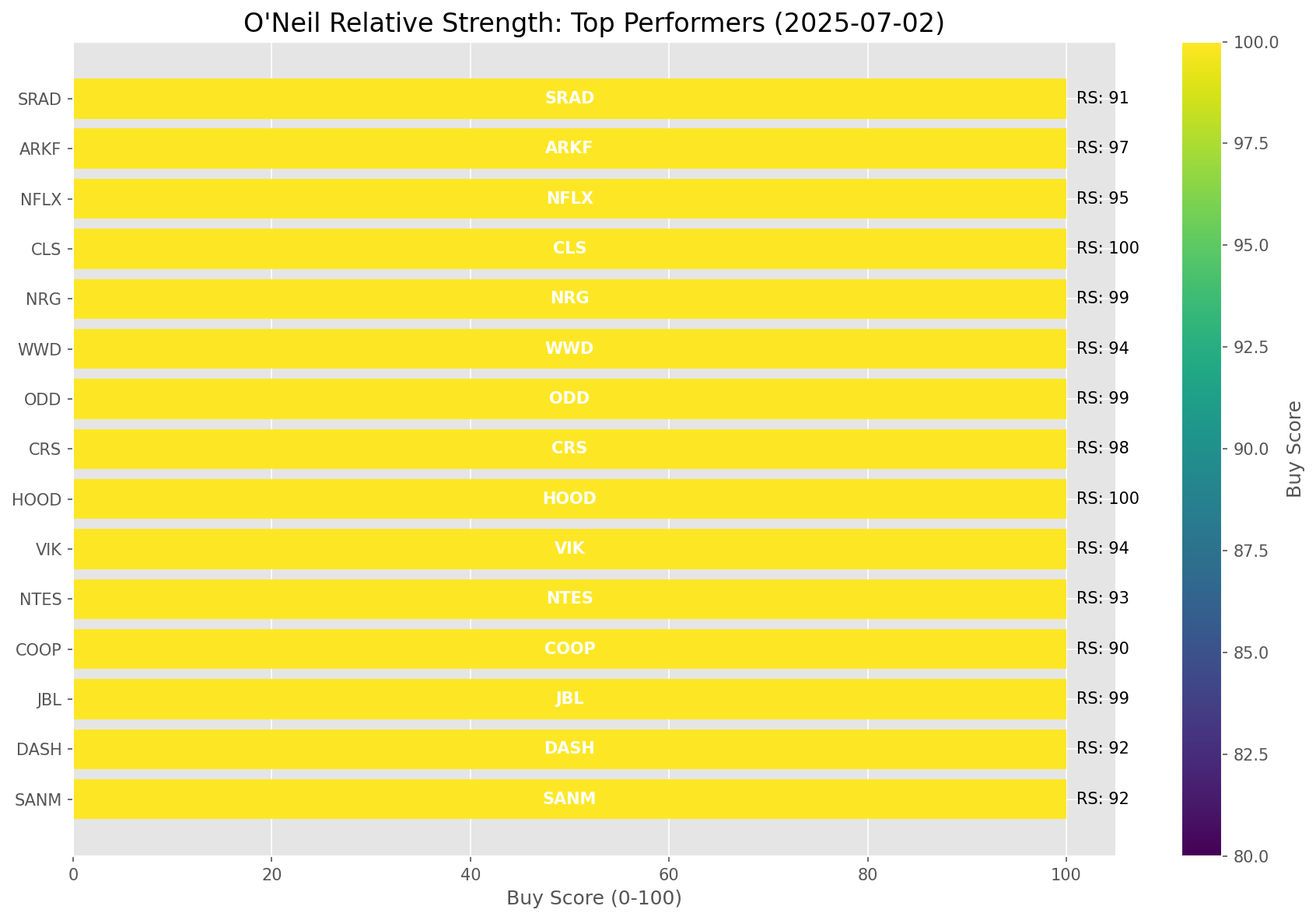
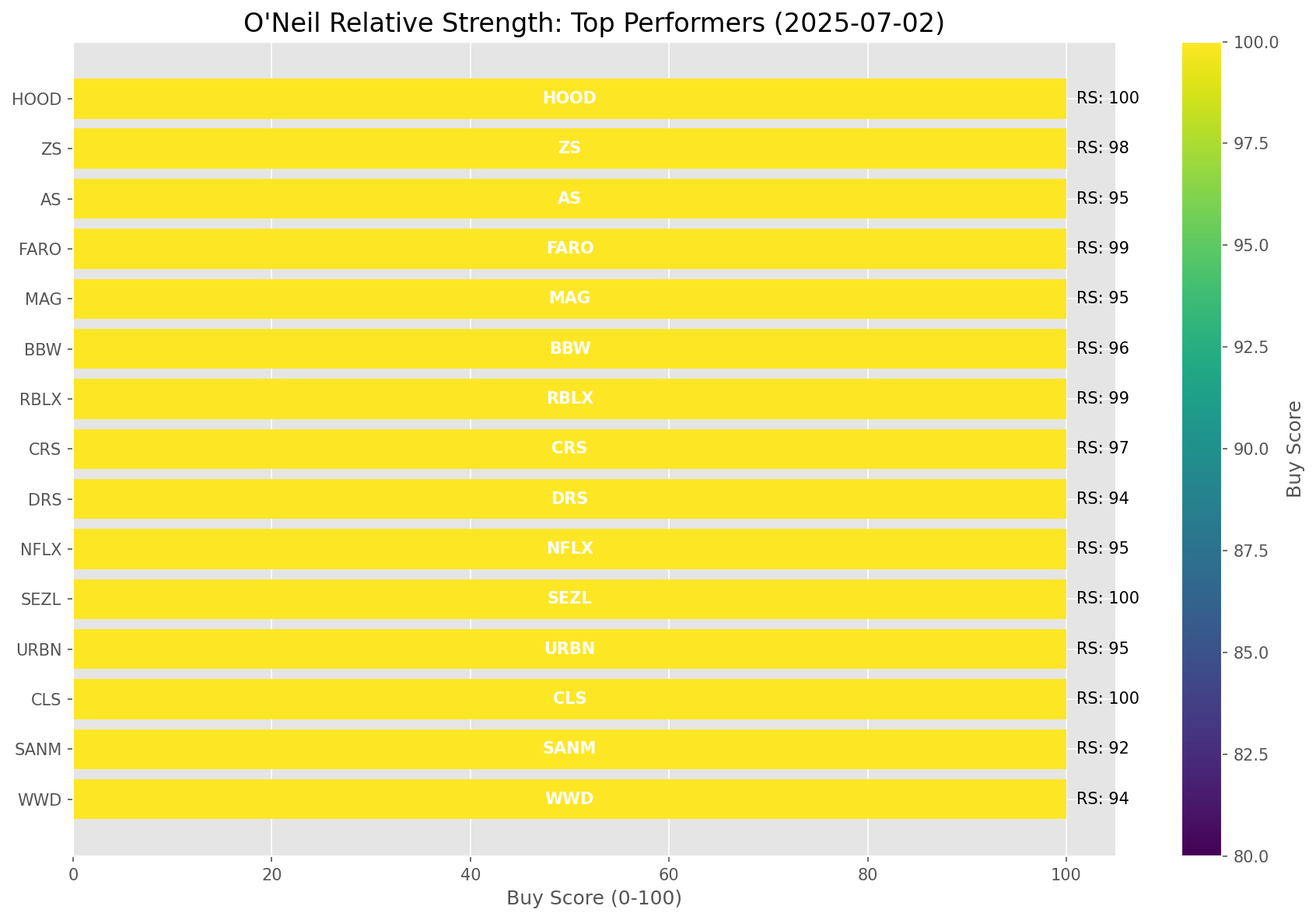
Add market report for 2025-07-02

diff --git a/oneil_relative_strength_report_2025-07-02.md b/oneil_relative_strength_report_2025-07-02.md
@@ -9,11 +9,11 @@
 | Metric | Value |
 |--------|-------|
 | **Market Valuation** | **Overvalued** |
-| **Current Ratio** | 10.14 |
-| **Historical Mean** | 9.36 |
-| **Standard Deviation** | 0.46 |
-| **Z-Score (StdDev from Mean)** | 1.69 |
-| **Total Market Cap** | $303.93 trillion |
+| **Current Ratio** | 10.15 |
+| **Historical Mean** | 9.37 |
+| **Standard Deviation** | 0.47 |
+| **Z-Score (StdDev from Mean)** | 1.64 |
+| **Total Market Cap** | $304.23 trillion |
 | **GDP** | $29.96 trillion |
 
 ## **Market Insights**
@@ -49,41 +49,41 @@ Based on William O'Neil's Relative Strength Methodology
 
 | ETF | Strength | RS Rating | Performance | Above Key MAs | Trend | Sector |
 |-----|----------|-----------|-------------|--------------|-------|--------|
-| [ARKF](https://www.tradingview.com/chart/?symbol=ARKF) | 98.5 | 97.0 | 48.26% | 10d ✓, 50d ✓, 200d ✓ | ↗ | Fintech Innovation |
-| [ARKK](https://www.tradingview.com/chart/?symbol=ARKK) | 98.0 | 96.0 | 44.89% | 10d ✓, 50d ✓, 200d ✓ | ↗ | Innovation |
-| [XLK](https://www.tradingview.com/chart/?symbol=XLK) | 92.5 | 85.0 | 21.55% | 10d ✓, 50d ✓, 200d ✓ | ↗ | Technology |
-| [AIQ](https://www.tradingview.com/chart/?symbol=AIQ) | 91.0 | 82.0 | 18.75% | 10d ✓, 50d ✓, 200d ✓ | ↗ | Artificial Intelligence & Technology |
-| [CIBR](https://www.tradingview.com/chart/?symbol=CIBR) | 90.5 | 81.0 | 18.13% | 10d ✓, 50d ✓, 200d ✓ | ↗ | Cybersecurity |
-| [URA](https://www.tradingview.com/chart/?symbol=URA) | 89.6 | 99.0 | 63.26% | 10d ✗, 50d ✓, 200d ✓ | ↗ | Uranium |
-| [PAVE](https://www.tradingview.com/chart/?symbol=PAVE) | 89.5 | 79.0 | 16.67% | 10d ✓, 50d ✓, 200d ✓ | ↗ | Infrastructure |
-| [JETS](https://www.tradingview.com/chart/?symbol=JETS) | 86.0 | 72.0 | 12.81% | 10d ✓, 50d ✓, 200d ✓ | ↗ | Airlines |
-| [XLI](https://www.tradingview.com/chart/?symbol=XLI) | 86.0 | 72.0 | 12.92% | 10d ✓, 50d ✓, 200d ✓ | ↗ | Industrial |
-| [XLC](https://www.tradingview.com/chart/?symbol=XLC) | 85.0 | 70.0 | 11.73% | 10d ✓, 50d ✓, 200d ✓ | ↗ | Communications |
-| [XLY](https://www.tradingview.com/chart/?symbol=XLY) | 83.0 | 66.0 | 10.53% | 10d ✓, 50d ✓, 200d ✓ | ↗ | Consumer Discretionary |
+| [ARKW](https://www.tradingview.com/chart/?symbol=ARKW) | 99.0 | 98.0 | 52.59% | 10d ✓, 50d ✓, 200d ✓ | ↗ | Next Generation Internet |
+| [ARKK](https://www.tradingview.com/chart/?symbol=ARKK) | 98.5 | 97.0 | 46.55% | 10d ✓, 50d ✓, 200d ✓ | ↗ | Innovation |
+| [ARKF](https://www.tradingview.com/chart/?symbol=ARKF) | 98.5 | 97.0 | 46.79% | 10d ✓, 50d ✓, 200d ✓ | ↗ | Fintech Innovation |
+| [BLOK](https://www.tradingview.com/chart/?symbol=BLOK) | 97.0 | 94.0 | 35.23% | 10d ✓, 50d ✓, 200d ✓ | ↗ | Blockchain & Cryptocurrency |
+| [XLK](https://www.tradingview.com/chart/?symbol=XLK) | 92.5 | 85.0 | 20.91% | 10d ✓, 50d ✓, 200d ✓ | ↗ | Technology |
+| [AIQ](https://www.tradingview.com/chart/?symbol=AIQ) | 90.0 | 80.0 | 17.62% | 10d ✓, 50d ✓, 200d ✓ | ↗ | Artificial Intelligence & Technology |
+| [URA](https://www.tradingview.com/chart/?symbol=URA) | 89.6 | 99.0 | 62.31% | 10d ✗, 50d ✓, 200d ✓ | ↗ | Uranium |
+| [CIBR](https://www.tradingview.com/chart/?symbol=CIBR) | 89.5 | 79.0 | 16.85% | 10d ✓, 50d ✓, 200d ✓ | ↗ | Cybersecurity |
+| [PAVE](https://www.tradingview.com/chart/?symbol=PAVE) | 89.0 | 78.0 | 16.08% | 10d ✓, 50d ✓, 200d ✓ | ↗ | Infrastructure |
+| [JETS](https://www.tradingview.com/chart/?symbol=JETS) | 87.5 | 75.0 | 14.48% | 10d ✓, 50d ✓, 200d ✓ | ↗ | Airlines |
+| [XLI](https://www.tradingview.com/chart/?symbol=XLI) | 85.0 | 70.0 | 12.02% | 10d ✓, 50d ✓, 200d ✓ | ↗ | Industrial |
+| [XLC](https://www.tradingview.com/chart/?symbol=XLC) | 84.5 | 69.0 | 11.62% | 10d ✓, 50d ✓, 200d ✓ | ↗ | Communications |
+| [XLY](https://www.tradingview.com/chart/?symbol=XLY) | 82.0 | 64.0 | 9.79% | 10d ✓, 50d ✓, 200d ✓ | ↗ | Consumer Discretionary |
 | [IYZ](https://www.tradingview.com/chart/?symbol=IYZ) | 80.0 | 60.0 | 8.58% | 10d ✓, 50d ✓, 200d ✓ | ↗ | Telecommunications |
-| [XLF](https://www.tradingview.com/chart/?symbol=XLF) | 76.5 | 53.0 | 5.72% | 10d ✓, 50d ✓, 200d ✓ | ↗ | Financial |
-| [SOXX](https://www.tradingview.com/chart/?symbol=SOXX) | 74.5 | 89.0 | 26.28% | 10d ✓, 50d ✓, 200d ✓ | ↘ | Semiconductors |
-| [XLU](https://www.tradingview.com/chart/?symbol=XLU) | 74.0 | 48.0 | 3.92% | 10d ✓, 50d ✓, 200d ✓ | ↗ | Utilities |
-| [ICLN](https://www.tradingview.com/chart/?symbol=ICLN) | 68.5 | 77.0 | 15.76% | 10d ✓, 50d ✓, 200d ✓ | ↘ | Clean Energy |
-| [XLP](https://www.tradingview.com/chart/?symbol=XLP) | 68.5 | 37.0 | 0.38% | 10d ✓, 50d ✓, 200d ✓ | ↗ | Consumer Staples |
-| [GLD](https://www.tradingview.com/chart/?symbol=GLD) | 67.6 | 55.0 | 6.74% | 10d ✗, 50d ✓, 200d ✓ | ↗ | Gold |
-| [SLV](https://www.tradingview.com/chart/?symbol=SLV) | 66.1 | 52.0 | 5.61% | 10d ✗, 50d ✓, 200d ✓ | ↗ | Silver |
-| [KWEB](https://www.tradingview.com/chart/?symbol=KWEB) | 64.5 | 29.0 | -1.63% | 10d ✓, 50d ✓, 200d ✓ | ↗ | Chinese Internet |
+| [SLV](https://www.tradingview.com/chart/?symbol=SLV) | 79.0 | 58.0 | 7.73% | 10d ✓, 50d ✓, 200d ✓ | ↗ | Silver |
+| [XLF](https://www.tradingview.com/chart/?symbol=XLF) | 76.0 | 52.0 | 5.29% | 10d ✓, 50d ✓, 200d ✓ | ↗ | Financial |
+| [SOXX](https://www.tradingview.com/chart/?symbol=SOXX) | 75.0 | 90.0 | 26.60% | 10d ✓, 50d ✓, 200d ✓ | ↘ | Semiconductors |
+| [XLU](https://www.tradingview.com/chart/?symbol=XLU) | 74.0 | 48.0 | 3.54% | 10d ✓, 50d ✓, 200d ✓ | ↗ | Utilities |
+| [ARKG](https://www.tradingview.com/chart/?symbol=ARKG) | 73.0 | 86.0 | 22.43% | 10d ✓, 50d ✓, 200d ✓ | ↘ | Genomics |
+| [ICLN](https://www.tradingview.com/chart/?symbol=ICLN) | 69.0 | 78.0 | 16.45% | 10d ✓, 50d ✓, 200d ✓ | ↘ | Clean Energy |
+| [XLP](https://www.tradingview.com/chart/?symbol=XLP) | 68.0 | 36.0 | 0.02% | 10d ✓, 50d ✓, 200d ✓ | ↗ | Consumer Staples |
+| [GLD](https://www.tradingview.com/chart/?symbol=GLD) | 67.6 | 55.0 | 6.79% | 10d ✗, 50d ✓, 200d ✓ | ↗ | Gold |
 | [IYT](https://www.tradingview.com/chart/?symbol=IYT) | 60.5 | 61.0 | 8.82% | 10d ✓, 50d ✓, 200d ✓ | ↘ | Transportation |
-| [ARKG](https://www.tradingview.com/chart/?symbol=ARKG) | 58.8 | 78.0 | 16.43% | 10d ✓, 50d ✓, 200d ✗ | ↘ | Genomics |
-| [XLB](https://www.tradingview.com/chart/?symbol=XLB) | 55.0 | 50.0 | 4.77% | 10d ✓, 50d ✓, 200d ✓ | ↘ | Materials |
-| [ITB](https://www.tradingview.com/chart/?symbol=ITB) | 41.3 | 43.0 | 2.02% | 10d ✓, 50d ✓, 200d ✗ | ↘ | Home Construction |
-| [IBB](https://www.tradingview.com/chart/?symbol=IBB) | 36.8 | 34.0 | -0.21% | 10d ✓, 50d ✓, 200d ✗ | ↘ | Biotechnology |
-| [IYR](https://www.tradingview.com/chart/?symbol=IYR) | 36.3 | 33.0 | -0.32% | 10d ✓, 50d ✓, 200d ✗ | ↘ | Real Estate |
-| [DBA](https://www.tradingview.com/chart/?symbol=DBA) | 32.5 | 25.0 | -2.95% | 10d ✗, 50d ✗, 200d ✗ | ↗ | Agriculture |
-| [TLT](https://www.tradingview.com/chart/?symbol=TLT) | 31.8 | 24.0 | -3.17% | 10d ✓, 50d ✓, 200d ✗ | ↘ | Long-term Treasuries |
-| [XLV](https://www.tradingview.com/chart/?symbol=XLV) | 28.3 | 17.0 | -6.37% | 10d ✓, 50d ✓, 200d ✗ | ↘ | Healthcare |
-| [DBC](https://www.tradingview.com/chart/?symbol=DBC) | 22.9 | 26.0 | -2.53% | 10d ✗, 50d ✓, 200d ✗ | ↘ | Commodities |
-| [BIL](https://www.tradingview.com/chart/?symbol=BIL) | 17.0 | 34.0 | -0.32% | 10d ✗, 50d ✗, 200d ✗ | ↘ | Short-term Treasuries |
-| [XLE](https://www.tradingview.com/chart/?symbol=XLE) | 16.4 | 13.0 | -8.55% | 10d ✗, 50d ✓, 200d ✗ | ↘ | Energy |
-| [UUP](https://www.tradingview.com/chart/?symbol=UUP) | 9.0 | 18.0 | -5.85% | 10d ✗, 50d ✗, 200d ✗ | ↘ | U.S. Dollar |
-| [ARKW](https://www.tradingview.com/chart/?symbol=ARKW) | 0.0 | 0.0 | 0.00% | 10d ✗, 50d ✗, 200d ✗ | ↘ | Next Generation Internet |
-| [BLOK](https://www.tradingview.com/chart/?symbol=BLOK) | 0.0 | 0.0 | 0.00% | 10d ✗, 50d ✗, 200d ✗ | ↘ | Blockchain & Cryptocurrency |
+| [XLB](https://www.tradingview.com/chart/?symbol=XLB) | 55.0 | 50.0 | 4.74% | 10d ✓, 50d ✓, 200d ✓ | ↘ | Materials |
+| [KWEB](https://www.tradingview.com/chart/?symbol=KWEB) | 52.1 | 24.0 | -3.50% | 10d ✗, 50d ✓, 200d ✓ | ↗ | Chinese Internet |
+| [IBB](https://www.tradingview.com/chart/?symbol=IBB) | 43.3 | 47.0 | 3.47% | 10d ✓, 50d ✓, 200d ✗ | ↘ | Biotechnology |
+| [ITB](https://www.tradingview.com/chart/?symbol=ITB) | 40.8 | 42.0 | 1.75% | 10d ✓, 50d ✓, 200d ✗ | ↘ | Home Construction |
+| [IYR](https://www.tradingview.com/chart/?symbol=IYR) | 35.8 | 32.0 | -0.66% | 10d ✓, 50d ✓, 200d ✗ | ↘ | Real Estate |
+| [DBA](https://www.tradingview.com/chart/?symbol=DBA) | 33.0 | 26.0 | -2.95% | 10d ✗, 50d ✗, 200d ✗ | ↗ | Agriculture |
+| [XLV](https://www.tradingview.com/chart/?symbol=XLV) | 29.8 | 20.0 | -5.22% | 10d ✓, 50d ✓, 200d ✗ | ↘ | Healthcare |
+| [DBC](https://www.tradingview.com/chart/?symbol=DBC) | 23.4 | 27.0 | -2.53% | 10d ✗, 50d ✓, 200d ✗ | ↘ | Commodities |
+| [TLT](https://www.tradingview.com/chart/?symbol=TLT) | 20.4 | 21.0 | -4.68% | 10d ✗, 50d ✓, 200d ✗ | ↘ | Long-term Treasuries |
+| [BIL](https://www.tradingview.com/chart/?symbol=BIL) | 18.0 | 36.0 | 0.02% | 10d ✗, 50d ✗, 200d ✗ | ↘ | Short-term Treasuries |
+| [XLE](https://www.tradingview.com/chart/?symbol=XLE) | 16.4 | 13.0 | -9.15% | 10d ✗, 50d ✓, 200d ✗ | ↘ | Energy |
+| [UUP](https://www.tradingview.com/chart/?symbol=UUP) | 9.5 | 19.0 | -5.62% | 10d ✗, 50d ✗, 200d ✗ | ↘ | U.S. Dollar |
 
 ### **Sector ETF Performance Interpretation**
 
@@ -98,138 +98,145 @@ This table shows the relative strength metrics for different market sectors base
 
 ### **Current Sector Leadership**
 
-The current market leadership is coming from the following sectors: **Fintech Innovation, Innovation, Technology**.
+The current market leadership is coming from the following sectors: **Next Generation Internet, Innovation, Fintech Innovation**.
 
-The **Fintech Innovation** sector (represented by **ARKF**) is showing particularly strong relative strength with an RS rating of 97.0 and performance of 48.26% vs. the S&P 500. This sector is trading above its 10-day, 50-day, 200-day moving average(s). Investors should consider focusing on high RS stocks within these leading sectors for potential outperformance.
+The **Next Generation Internet** sector (represented by **ARKW**) is showing particularly strong relative strength with an RS rating of 98.0 and performance of 52.59% vs. the S&P 500. This sector is trading above its 10-day, 50-day, 200-day moving average(s). Investors should consider focusing on high RS stocks within these leading sectors for potential outperformance.
 
 ---
 
 ## **Buy Recommendations**
 
-The following 69 stocks show exceptional relative strength:
+The following 59 stocks show exceptional relative strength:
 
 | RS Rating | Buy Score | Current Price | Chart | Name | Ticker |
 |-----------|-----------|---------------|-------|------|--------|
-| 100 | 100 | $92.33 | [Chart](https://www.tradingview.com/chart/?symbol=HOOD) | Robinhood Markets, Inc. Class A Common Stock | HOOD |
-| 100 | 100 | $148.91 | [Chart](https://www.tradingview.com/chart/?symbol=CLS) | Celestica, Inc. | CLS |
+| 100 | 100 | $150.14 | [Chart](https://www.tradingview.com/chart/?symbol=CLS) | Celestica, Inc. | CLS |
+| 100 | 100 | $170.72 | [Chart](https://www.tradingview.com/chart/?symbol=SEZL) | Sezzle Inc. Common Stock | SEZL |
+| 100 | 100 | $97.59 | [Chart](https://www.tradingview.com/chart/?symbol=HOOD) | Robinhood Markets, Inc. Class A Common Stock | HOOD |
 | 100 | 100 | $260.67 | [Chart](https://www.tradingview.com/chart/?symbol=DAVE) | Dave Inc. Class A Common Stock | DAVE |
-| 100 | 100 | $167.58 | [Chart](https://www.tradingview.com/chart/?symbol=SEZL) | Sezzle Inc. Common Stock | SEZL |
-| 99 | 100 | $216.14 | [Chart](https://www.tradingview.com/chart/?symbol=JBL) | Jabil Inc. | JBL |
+| 99 | 100 | $103.60 | [Chart](https://www.tradingview.com/chart/?symbol=RBLX) | Roblox Corporation | RBLX |
+| 99 | 100 | $43.91 | [Chart](https://www.tradingview.com/chart/?symbol=FARO) | Faro Technologies Inc | FARO |
+| 99 | 100 | $509.87 | [Chart](https://www.tradingview.com/chart/?symbol=GEV) | GE Vernova Inc. | GEV |
 | 99 | 100 | $74.24 | [Chart](https://www.tradingview.com/chart/?symbol=ODD) | ODDITY Tech Ltd. Class A Ordinary Shares | ODD |
-| 99 | 100 | $155.96 | [Chart](https://www.tradingview.com/chart/?symbol=NRG) | NRG Energy, Inc. | NRG |
-| 99 | 100 | $64.38 | [Chart](https://www.tradingview.com/chart/?symbol=LIF) | Life360, Inc. Common Stock | LIF |
-| 99 | 100 | $506.00 | [Chart](https://www.tradingview.com/chart/?symbol=GEV) | GE Vernova Inc. | GEV |
-| 99 | 100 | $338.26 | [Chart](https://www.tradingview.com/chart/?symbol=CVNA) | Carvana Co. | CVNA |
-| 98 | 100 | $271.75 | [Chart](https://www.tradingview.com/chart/?symbol=CRS) | Carpenter Technology Corp | CRS |
-| 98 | 100 | $476.63 | [Chart](https://www.tradingview.com/chart/?symbol=CW) | Curtiss-Wright Corp. | CW |
-| 98 | 100 | $315.10 | [Chart](https://www.tradingview.com/chart/?symbol=RCL) | Royal Caribbean Group | RCL |
-| 97 | 100 | $49.31 | [Chart](https://www.tradingview.com/chart/?symbol=ARKF) | ARK Fintech Innovation ETF | ARKF |
-| 97 | 100 | $97.39 | [Chart](https://www.tradingview.com/chart/?symbol=APH) | Amphenol Corporation | APH |
+| 99 | 100 | $345.79 | [Chart](https://www.tradingview.com/chart/?symbol=CVNA) | Carvana Co. | CVNA |
+| 98 | 100 | $311.29 | [Chart](https://www.tradingview.com/chart/?symbol=ZS) | Zscaler, Inc. Common Stock | ZS |
+| 98 | 100 | $322.46 | [Chart](https://www.tradingview.com/chart/?symbol=RCL) | Royal Caribbean Group | RCL |
+| 98 | 100 | $218.39 | [Chart](https://www.tradingview.com/chart/?symbol=JBL) | Jabil Inc. | JBL |
+| 98 | 100 | $157.08 | [Chart](https://www.tradingview.com/chart/?symbol=NRG) | NRG Energy, Inc. | NRG |
+| 97 | 100 | $271.75 | [Chart](https://www.tradingview.com/chart/?symbol=CRS) | Carpenter Technology Corp | CRS |
 | 96 | 100 | $52.60 | [Chart](https://www.tradingview.com/chart/?symbol=BBW) | Build-A-Bear Workshop, Inc. | BBW |
-| 96 | 100 | $73.59 | [Chart](https://www.tradingview.com/chart/?symbol=URBN) | Urban Outfitters Inc | URBN |
-| 96 | 100 | $168.23 | [Chart](https://www.tradingview.com/chart/?symbol=MTZ) | MasTec, Inc. | MTZ |
-| 96 | 100 | $37.67 | [Chart](https://www.tradingview.com/chart/?symbol=AS) | Amer Sports, Inc. | AS |
-| 95 | 100 | $1293.60 | [Chart](https://www.tradingview.com/chart/?symbol=NFLX) | NetFlix Inc | NFLX |
-| 95 | 100 | $45.09 | [Chart](https://www.tradingview.com/chart/?symbol=DRS) | Leonardo DRS, Inc. Common Stock | DRS |
-| 94 | 100 | $54.01 | [Chart](https://www.tradingview.com/chart/?symbol=VIK) | Viking Holdings Ltd | VIK |
+| 95 | 100 | $73.59 | [Chart](https://www.tradingview.com/chart/?symbol=URBN) | Urban Outfitters Inc | URBN |
+| 95 | 100 | $1292.77 | [Chart](https://www.tradingview.com/chart/?symbol=NFLX) | NetFlix Inc | NFLX |
+| 95 | 100 | $21.34 | [Chart](https://www.tradingview.com/chart/?symbol=MAG) | MAG Silver Corp. | MAG |
+| 95 | 100 | $37.79 | [Chart](https://www.tradingview.com/chart/?symbol=AS) | Amer Sports, Inc. | AS |
 | 94 | 100 | $244.35 | [Chart](https://www.tradingview.com/chart/?symbol=WWD) | Woodward, Inc. | WWD |
-| 94 | 100 | $56.32 | [Chart](https://www.tradingview.com/chart/?symbol=IBKR) | Interactive Brokers Group, Inc. Class A Common Stock | IBKR |
-| 94 | 100 | $41.96 | [Chart](https://www.tradingview.com/chart/?symbol=KD) | Kyndryl Holdings, Inc. | KD |
-| 93 | 100 | $134.78 | [Chart](https://www.tradingview.com/chart/?symbol=NTES) | NetEase, inc. | NTES |
-| 93 | 100 | $63.70 | [Chart](https://www.tradingview.com/chart/?symbol=CAKE) | Cheesecake Factory (The) | CAKE |
+| 94 | 100 | $45.09 | [Chart](https://www.tradingview.com/chart/?symbol=DRS) | Leonardo DRS, Inc. Common Stock | DRS |
+| 93 | 100 | $17.59 | [Chart](https://www.tradingview.com/chart/?symbol=DAN) | Dana Incorporated | DAN |
+| 93 | 100 | $57.41 | [Chart](https://www.tradingview.com/chart/?symbol=IBKR) | Interactive Brokers Group, Inc. Class A Common Stock | IBKR |
+| 93 | 100 | $241.92 | [Chart](https://www.tradingview.com/chart/?symbol=DASH) | DoorDash, Inc. Class A Common Stock | DASH |
 | 92 | 100 | $98.49 | [Chart](https://www.tradingview.com/chart/?symbol=SANM) | Sanmina  Corp | SANM |
-| 92 | 100 | $238.01 | [Chart](https://www.tradingview.com/chart/?symbol=DASH) | DoorDash, Inc. Class A Common Stock | DASH |
 | 92 | 100 | $32.56 | [Chart](https://www.tradingview.com/chart/?symbol=PRDO) | Perdoceo Education Corporation | PRDO |
-| 92 | 100 | $104.67 | [Chart](https://www.tradingview.com/chart/?symbol=JCI) | Johnson Controls International plc | JCI |
-| 91 | 100 | $27.69 | [Chart](https://www.tradingview.com/chart/?symbol=SRAD) | Sportradar Group AG Class A Ordinary Shares | SRAD |
-| 91 | 100 | $24.74 | [Chart](https://www.tradingview.com/chart/?symbol=KAR) | OPENLANE, Inc | KAR |
-| 90 | 100 | $152.18 | [Chart](https://www.tradingview.com/chart/?symbol=COOP) | Mr. Cooper Group Inc. Common Stock | COOP |
-| 88 | 100 | $5730.73 | [Chart](https://www.tradingview.com/chart/?symbol=BKNG) | Booking Holdings Inc. Common Stock | BKNG |
-| 87 | 100 | $184.02 | [Chart](https://www.tradingview.com/chart/?symbol=EAT) | Brinker International, Inc. | EAT |
-| 87 | 100 | $86.94 | [Chart](https://www.tradingview.com/chart/?symbol=TPR) | Tapestry, Inc. Common Stock | TPR |
-| 88 | 99 | $65.44 | [Chart](https://www.tradingview.com/chart/?symbol=RYTM) | Rhythm Pharmaceuticals, Inc. Common Stock | RYTM |
-| 88 | 99 | $249.02 | [Chart](https://www.tradingview.com/chart/?symbol=GE) | GE Aerospace | GE |
+| 92 | 100 | $41.58 | [Chart](https://www.tradingview.com/chart/?symbol=KD) | Kyndryl Holdings, Inc. | KD |
+| 91 | 100 | $27.76 | [Chart](https://www.tradingview.com/chart/?symbol=SRAD) | Sportradar Group AG Class A Ordinary Shares | SRAD |
+| 91 | 100 | $104.98 | [Chart](https://www.tradingview.com/chart/?symbol=JCI) | Johnson Controls International plc | JCI |
+| 90 | 100 | $64.32 | [Chart](https://www.tradingview.com/chart/?symbol=CAKE) | Cheesecake Factory (The) | CAKE |
+| 89 | 100 | $25.31 | [Chart](https://www.tradingview.com/chart/?symbol=KAR) | OPENLANE, Inc | KAR |
+| 88 | 99 | $282.62 | [Chart](https://www.tradingview.com/chart/?symbol=VEEV) | Veeva Systems Inc. | VEEV |
+| 88 | 99 | $5730.73 | [Chart](https://www.tradingview.com/chart/?symbol=BKNG) | Booking Holdings Inc. Common Stock | BKNG |
+| 87 | 99 | $154.46 | [Chart](https://www.tradingview.com/chart/?symbol=COOP) | Mr. Cooper Group Inc. Common Stock | COOP |
+| 85 | 98 | $44.10 | [Chart](https://www.tradingview.com/chart/?symbol=EXEL) | Exelixis Inc | EXEL |
+| 85 | 98 | $182.75 | [Chart](https://www.tradingview.com/chart/?symbol=EAT) | Brinker International, Inc. | EAT |
+| 88 | 97 | $48.45 | [Chart](https://www.tradingview.com/chart/?symbol=SIL) | Global X Silver Miners ETF (NEW) | SIL |
 | 84 | 97 | $21.31 | [Chart](https://www.tradingview.com/chart/?symbol=KT) | KT Corp. | KT |
-| 86 | 96 | $282.90 | [Chart](https://www.tradingview.com/chart/?symbol=VEEV) | Veeva Systems Inc. | VEEV |
-| 86 | 96 | $80.43 | [Chart](https://www.tradingview.com/chart/?symbol=BYD) | Boyd Gaming Corporation | BYD |
-| 84 | 96 | $29.45 | [Chart](https://www.tradingview.com/chart/?symbol=NTGR) | NETGEAR, Inc. | NTGR |
-| 83 | 96 | $18.33 | [Chart](https://www.tradingview.com/chart/?symbol=BCS) | Barclays PLC | BCS |
-| 83 | 96 | $36.22 | [Chart](https://www.tradingview.com/chart/?symbol=AHR) | American Healthcare REIT, Inc. | AHR |
+| 87 | 96 | $65.44 | [Chart](https://www.tradingview.com/chart/?symbol=RYTM) | Rhythm Pharmaceuticals, Inc. Common Stock | RYTM |
+| 86 | 96 | $250.81 | [Chart](https://www.tradingview.com/chart/?symbol=WTS) | Watts Water Technologies, Inc. Class A | WTS |
+| 85 | 96 | $215.75 | [Chart](https://www.tradingview.com/chart/?symbol=COF) | Capital One Financial | COF |
 | 82 | 96 | $90.89 | [Chart](https://www.tradingview.com/chart/?symbol=SNEX) | StoneX Group Inc. Common Stock | SNEX |
-| 86 | 95 | $48.27 | [Chart](https://www.tradingview.com/chart/?symbol=SIL) | Global X Silver Miners ETF (NEW) | SIL |
-| 84 | 95 | $215.18 | [Chart](https://www.tradingview.com/chart/?symbol=COF) | Capital One Financial | COF |
 | 84 | 95 | $185.01 | [Chart](https://www.tradingview.com/chart/?symbol=ITA) | iShares U.S. Aerospace & Defense ETF | ITA |
-| 83 | 95 | $75.11 | [Chart](https://www.tradingview.com/chart/?symbol=CTVA) | Corteva, Inc. Common Stock | CTVA |
-| 81 | 94 | $43.62 | [Chart](https://www.tradingview.com/chart/?symbol=EXEL) | Exelixis Inc | EXEL |
-| 81 | 94 | $80.39 | [Chart](https://www.tradingview.com/chart/?symbol=LLYVK) | Liberty Media Corporation Series C Liberty Live Common Stock | LLYVK |
+| 84 | 94 | $29.45 | [Chart](https://www.tradingview.com/chart/?symbol=NTGR) | NETGEAR, Inc. | NTGR |
+| 84 | 94 | $139.82 | [Chart](https://www.tradingview.com/chart/?symbol=PPA) | Invesco Aerospace & Defense ETF | PPA |
+| 83 | 94 | $75.92 | [Chart](https://www.tradingview.com/chart/?symbol=CTVA) | Corteva, Inc. Common Stock | CTVA |
+| 81 | 94 | $36.46 | [Chart](https://www.tradingview.com/chart/?symbol=AHR) | American Healthcare REIT, Inc. | AHR |
 | 81 | 94 | $28.98 | [Chart](https://www.tradingview.com/chart/?symbol=CAE) | CAE INC | CAE |
-| 83 | 93 | $110.74 | [Chart](https://www.tradingview.com/chart/?symbol=SPMO) | Invesco S&P 500 Momentum ETF | SPMO |
-| 83 | 93 | $265.87 | [Chart](https://www.tradingview.com/chart/?symbol=FDN) | First Trust Dow Jones Internet Index Fund ETF | FDN |
-| 82 | 93 | $100.80 | [Chart](https://www.tradingview.com/chart/?symbol=LBRDK) | Liberty Broadband Corporation Class C | LBRDK |
-| 82 | 93 | $50.71 | [Chart](https://www.tradingview.com/chart/?symbol=GH) | Guardant Health, Inc. Common Stock | GH |
-| 81 | 93 | $77.42 | [Chart](https://www.tradingview.com/chart/?symbol=USFD) | US Foods Holding Corp. | USFD |
-| 81 | 93 | $222.63 | [Chart](https://www.tradingview.com/chart/?symbol=BAP) | Credicorp LTD | BAP |
-| 81 | 93 | $74.42 | [Chart](https://www.tradingview.com/chart/?symbol=CIBR) | First Trust Exchange-Traded Fund II First Trust NASDAQ Cybersecurity ETF | CIBR |
-| 81 | 93 | $290.41 | [Chart](https://www.tradingview.com/chart/?symbol=JPM) | JPMorgan Chase & Co. | JPM |
-| 80 | 93 | $510.64 | [Chart](https://www.tradingview.com/chart/?symbol=CASY) | Casey's General Stores Inc | CASY |
-| 80 | 93 | $291.20 | [Chart](https://www.tradingview.com/chart/?symbol=IBM) | International Business Machines Corporation | IBM |
-| 82 | 92 | $19.44 | [Chart](https://www.tradingview.com/chart/?symbol=ATEN) | A10 NETWORKS INC | ATEN |
-| 82 | 91 | $121.64 | [Chart](https://www.tradingview.com/chart/?symbol=FUTU) | Futu Holdings Limited American Depositary Shares | FUTU |
+| 83 | 93 | $111.06 | [Chart](https://www.tradingview.com/chart/?symbol=SPMO) | Invesco S&P 500 Momentum ETF | SPMO |
+| 83 | 93 | $50.65 | [Chart](https://www.tradingview.com/chart/?symbol=GH) | Guardant Health, Inc. Common Stock | GH |
+| 81 | 93 | $80.39 | [Chart](https://www.tradingview.com/chart/?symbol=LLYVK) | Liberty Media Corporation Series C Liberty Live Common Stock | LLYVK |
+| 82 | 92 | $33.93 | [Chart](https://www.tradingview.com/chart/?symbol=ATAT) | Atour Lifestyle Holdings Limited American Depositary Shares | ATAT |
+| 81 | 92 | $222.63 | [Chart](https://www.tradingview.com/chart/?symbol=BAP) | Credicorp LTD | BAP |
+| 80 | 92 | $510.64 | [Chart](https://www.tradingview.com/chart/?symbol=CASY) | Casey's General Stores Inc | CASY |
 | 81 | 91 | $91.50 | [Chart](https://www.tradingview.com/chart/?symbol=SEIC) | SEI Investments Co | SEIC |
-| 80 | 91 | $88.94 | [Chart](https://www.tradingview.com/chart/?symbol=NDAQ) | Nasdaq, Inc. Common Stock | NDAQ |
-| 80 | 90 | $236.81 | [Chart](https://www.tradingview.com/chart/?symbol=MTUM) | iShares MSCI USA Momentum Factor ETF | MTUM |
-| 80 | 90 | $165.60 | [Chart](https://www.tradingview.com/chart/?symbol=AWI) | Armstrong World Industries, Inc. | AWI |
+| 80 | 91 | $77.36 | [Chart](https://www.tradingview.com/chart/?symbol=USFD) | US Foods Holding Corp. | USFD |
+| 80 | 91 | $27.41 | [Chart](https://www.tradingview.com/chart/?symbol=UVE) | UNIVERSAL INSURANCE HLDG, INC. | UVE |
+| 80 | 90 | $89.04 | [Chart](https://www.tradingview.com/chart/?symbol=NDAQ) | Nasdaq, Inc. Common Stock | NDAQ |
+| 80 | 89 | $121.14 | [Chart](https://www.tradingview.com/chart/?symbol=FUTU) | Futu Holdings Limited American Depositary Shares | FUTU |
 
 ---
 
 
 ## **Sell Recommendations**
 
-The following 41 stocks show deteriorating relative strength:
+The following 58 stocks show deteriorating relative strength:
 
 | RS Rating | Sell Score | Current Price | Chart | Name | Ticker |
 |-----------|------------|---------------|-------|------|--------|
-| 1 | 100 | $11.51 | [Chart](https://www.tradingview.com/chart/?symbol=TZA) | Direxion Daily Small Cap Bear 3x Shares | TZA |
 | 1 | 100 | $27.44 | [Chart](https://www.tradingview.com/chart/?symbol=TECS) | Direxion Daily Technology Bear 3x Shares | TECS |
-| 1 | 100 | $16.61 | [Chart](https://www.tradingview.com/chart/?symbol=SRTY) | ProShares UltraPro Short Russell2000 | SRTY |
-| 2 | 100 | $43.25 | [Chart](https://www.tradingview.com/chart/?symbol=LINE) | Lineage, Inc. Common Stock | LINE |
-| 2 | 100 | $25.75 | [Chart](https://www.tradingview.com/chart/?symbol=QID) | ProShares UltraShort QQQ | QID |
-| 2 | 100 | $11.93 | [Chart](https://www.tradingview.com/chart/?symbol=LBRT) | Liberty Energy Inc. | LBRT |
+| 1 | 100 | $16.54 | [Chart](https://www.tradingview.com/chart/?symbol=SRTY) | ProShares UltraPro Short Russell2000 | SRTY |
+| 1 | 100 | $10.09 | [Chart](https://www.tradingview.com/chart/?symbol=HIBS) | Direxion Daily S&P 500 High Beta Bear 3X Shares | HIBS |
+| 1 | 100 | $14.77 | [Chart](https://www.tradingview.com/chart/?symbol=NVDS) | Investment Managers Series Trust II Tradr 1.5X Short NVDA Daily ETF | NVDS |
+| 2 | 100 | $25.60 | [Chart](https://www.tradingview.com/chart/?symbol=QID) | ProShares UltraShort QQQ | QID |
+| 2 | 100 | $11.82 | [Chart](https://www.tradingview.com/chart/?symbol=LBRT) | Liberty Energy Inc. | LBRT |
 | 2 | 100 | $24.27 | [Chart](https://www.tradingview.com/chart/?symbol=CRTO) | Criteo S.A. | CRTO |
-| 3 | 100 | $20.10 | [Chart](https://www.tradingview.com/chart/?symbol=BITI) | ProShares Short Bitcoin ETF | BITI |
-| 3 | 100 | $40.26 | [Chart](https://www.tradingview.com/chart/?symbol=SDOW) | ProShares UltraPro Short Dow 30 | SDOW |
-| 3 | 100 | $12.24 | [Chart](https://www.tradingview.com/chart/?symbol=VFC) | V.F. Corporation | VFC |
+| 2 | 100 | $248.14 | [Chart](https://www.tradingview.com/chart/?symbol=MOH) | Molina Healthcare, Inc. | MOH |
+| 3 | 100 | $19.61 | [Chart](https://www.tradingview.com/chart/?symbol=BITI) | ProShares Short Bitcoin ETF | BITI |
+| 3 | 100 | $40.69 | [Chart](https://www.tradingview.com/chart/?symbol=SDOW) | ProShares UltraPro Short Dow 30 | SDOW |
+| 3 | 100 | $16.66 | [Chart](https://www.tradingview.com/chart/?symbol=SDS) | ProShares UltraShort S&P500 | SDS |
+| 3 | 100 | $43.40 | [Chart](https://www.tradingview.com/chart/?symbol=LINE) | Lineage, Inc. Common Stock | LINE |
 | 4 | 100 | $79.42 | [Chart](https://www.tradingview.com/chart/?symbol=LNTH) | Lantheus Holdings, Inc | LNTH |
-| 5 | 100 | $33.96 | [Chart](https://www.tradingview.com/chart/?symbol=PSQ) | ProShares Short QQQ | PSQ |
-| 7 | 100 | $23.77 | [Chart](https://www.tradingview.com/chart/?symbol=DXD) | ProShares UltraShort Dow 30 | DXD |
-| 10 | 100 | $39.71 | [Chart](https://www.tradingview.com/chart/?symbol=SH) | ProShares Short S&P500 | SH |
+| 4 | 100 | $12.27 | [Chart](https://www.tradingview.com/chart/?symbol=VFC) | V.F. Corporation | VFC |
+| 5 | 100 | $361.17 | [Chart](https://www.tradingview.com/chart/?symbol=ELV) | Elevance Health, Inc. | ELV |
+| 6 | 100 | $33.86 | [Chart](https://www.tradingview.com/chart/?symbol=PSQ) | ProShares Short QQQ | PSQ |
+| 7 | 100 | $104.16 | [Chart](https://www.tradingview.com/chart/?symbol=PDD) | PDD Holdings Inc. American Depositary Shares | PDD |
+| 7 | 100 | $10.37 | [Chart](https://www.tradingview.com/chart/?symbol=LBTYK) | Liberty Global Ltd. Class C Common Shares | LBTYK |
+| 8 | 100 | $23.93 | [Chart](https://www.tradingview.com/chart/?symbol=DXD) | ProShares UltraShort Dow 30 | DXD |
+| 10 | 100 | $39.69 | [Chart](https://www.tradingview.com/chart/?symbol=SH) | ProShares Short S&P500 | SH |
 | 11 | 100 | $36.41 | [Chart](https://www.tradingview.com/chart/?symbol=SARK) | Investment Managers Series Trust II Tradr 1X Short Innovation Daily ETF | SARK |
-| 11 | 100 | $13.75 | [Chart](https://www.tradingview.com/chart/?symbol=OCSL) | Oaktree Specialty Lending Corporation | OCSL |
-| 12 | 100 | $17.89 | [Chart](https://www.tradingview.com/chart/?symbol=ZTO) | ZTO Express (Cayman) Inc. American Depositary Shares, each representing one Class A ordinary share | ZTO |
-| 10 | 99 | $10.41 | [Chart](https://www.tradingview.com/chart/?symbol=LBTYK) | Liberty Global Ltd. Class C Common Shares | LBTYK |
-| 9 | 98 | $25.94 | [Chart](https://www.tradingview.com/chart/?symbol=ZSL) | ProShares UltraShort Silver | ZSL |
-| 10 | 96 | $105.49 | [Chart](https://www.tradingview.com/chart/?symbol=PDD) | PDD Holdings Inc. American Depositary Shares | PDD |
-| 7 | 95 | $12.54 | [Chart](https://www.tradingview.com/chart/?symbol=WSR) | Whitestone REIT | WSR |
-| 9 | 95 | $49.05 | [Chart](https://www.tradingview.com/chart/?symbol=SNY) | Sanofi American Depositary Shares (Each representing one-half of one ordinary share) | SNY |
+| 12 | 100 | $17.94 | [Chart](https://www.tradingview.com/chart/?symbol=ZTO) | ZTO Express (Cayman) Inc. American Depositary Shares, each representing one Class A ordinary share | ZTO |
+| 13 | 100 | $65.42 | [Chart](https://www.tradingview.com/chart/?symbol=ZROZ) | PIMCO 25+ Year Zero Coupon U.S. Treasury Index Exchange-Traded Fund | ZROZ |
+| 5 | 99 | $17.25 | [Chart](https://www.tradingview.com/chart/?symbol=CODI) | Compass Diversified | CODI |
+| 11 | 99 | $13.75 | [Chart](https://www.tradingview.com/chart/?symbol=OCSL) | Oaktree Specialty Lending Corporation | OCSL |
+| 4 | 97 | $81.01 | [Chart](https://www.tradingview.com/chart/?symbol=OKE) | Oneok, Inc. | OKE |
+| 10 | 97 | $18.09 | [Chart](https://www.tradingview.com/chart/?symbol=DJT) | Trump Media & Technology Group Corp. Common Stock | DJT |
+| 10 | 97 | $25.94 | [Chart](https://www.tradingview.com/chart/?symbol=ZSL) | ProShares UltraShort Silver | ZSL |
+| 6 | 95 | $24.77 | [Chart](https://www.tradingview.com/chart/?symbol=DRV) | Direxion Daily Real Estate Bear 3X Shares | DRV |
 | 11 | 95 | $54.07 | [Chart](https://www.tradingview.com/chart/?symbol=CNMD) | CONMED Corporation | CNMD |
-| 17 | 93 | $86.04 | [Chart](https://www.tradingview.com/chart/?symbol=BIDU) | Baidu, Inc. | BIDU |
-| 17 | 92 | $25.25 | [Chart](https://www.tradingview.com/chart/?symbol=DOG) | ProShares Short Dow30 | DOG |
+| 17 | 94 | $85.63 | [Chart](https://www.tradingview.com/chart/?symbol=BIDU) | Baidu, Inc. | BIDU |
+| 17 | 94 | $15.08 | [Chart](https://www.tradingview.com/chart/?symbol=PAXS) | PIMCO Access Income Fund | PAXS |
+| 8 | 93 | $12.54 | [Chart](https://www.tradingview.com/chart/?symbol=WSR) | Whitestone REIT | WSR |
+| 12 | 93 | $49.08 | [Chart](https://www.tradingview.com/chart/?symbol=SNY) | Sanofi American Depositary Shares (Each representing one-half of one ordinary share) | SNY |
+| 17 | 93 | $25.33 | [Chart](https://www.tradingview.com/chart/?symbol=DOG) | ProShares Short Dow30 | DOG |
+| 14 | 92 | $131.16 | [Chart](https://www.tradingview.com/chart/?symbol=KMB) | Kimberly-Clark Corp. | KMB |
 | 23 | 92 | $10.36 | [Chart](https://www.tradingview.com/chart/?symbol=MUC) | BLACKROCK MUNIHOLDINGS CALIFORNIA QUALITY FUND, INC | MUC |
-| 13 | 91 | $17.73 | [Chart](https://www.tradingview.com/chart/?symbol=DJT) | Trump Media & Technology Group Corp. Common Stock | DJT |
 | 20 | 91 | $87.16 | [Chart](https://www.tradingview.com/chart/?symbol=SIGI) | Selective Insurance Group | SIGI |
-| 15 | 90 | $131.61 | [Chart](https://www.tradingview.com/chart/?symbol=KMB) | Kimberly-Clark Corp. | KMB |
-| 15 | 90 | $306.29 | [Chart](https://www.tradingview.com/chart/?symbol=MOH) | Molina Healthcare, Inc. | MOH |
-| 18 | 90 | $775.90 | [Chart](https://www.tradingview.com/chart/?symbol=LLY) | Eli Lilly & Co. | LLY |
-| 23 | 88 | $28.46 | [Chart](https://www.tradingview.com/chart/?symbol=RNA) | Avidity Biosciences, Inc. Common Stock | RNA |
-| 19 | 85 | $290.91 | [Chart](https://www.tradingview.com/chart/?symbol=UTHR) | United Therapeutics Corp | UTHR |
+| 11 | 90 | $40.41 | [Chart](https://www.tradingview.com/chart/?symbol=UDR) | UDR, Inc. | UDR |
+| 14 | 89 | $30.65 | [Chart](https://www.tradingview.com/chart/?symbol=AXTA) | Axalta Coating Systems Ltd. | AXTA |
+| 15 | 88 | $14.84 | [Chart](https://www.tradingview.com/chart/?symbol=PLSE) | Pulse Biosciences, Inc Common Stock (DE) | PLSE |
+| 21 | 88 | $21.86 | [Chart](https://www.tradingview.com/chart/?symbol=KIDS) | OrthoPediatrics Corp. Common Stock | KIDS |
+| 19 | 87 | $35.88 | [Chart](https://www.tradingview.com/chart/?symbol=WPP) | WPP PLC | WPP |
+| 23 | 87 | $775.04 | [Chart](https://www.tradingview.com/chart/?symbol=LLY) | Eli Lilly & Co. | LLY |
+| 24 | 87 | $28.46 | [Chart](https://www.tradingview.com/chart/?symbol=RNA) | Avidity Biosciences, Inc. Common Stock | RNA |
+| 19 | 86 | $290.91 | [Chart](https://www.tradingview.com/chart/?symbol=UTHR) | United Therapeutics Corp | UTHR |
+| 28 | 86 | $18.22 | [Chart](https://www.tradingview.com/chart/?symbol=S) | SentinelOne, Inc. | S |
 | 19 | 85 | $18.88 | [Chart](https://www.tradingview.com/chart/?symbol=MSDL) | Morgan Stanley Direct Lending Fund | MSDL |
+| 21 | 85 | $298.86 | [Chart](https://www.tradingview.com/chart/?symbol=ACN) | Accenture PLC | ACN |
+| 19 | 82 | $54.98 | [Chart](https://www.tradingview.com/chart/?symbol=DAY) | Dayforce, Inc. | DAY |
 | 21 | 82 | $76.29 | [Chart](https://www.tradingview.com/chart/?symbol=CNS) | Cohen & Steers Inc. | CNS |
-| 23 | 79 | $69.02 | [Chart](https://www.tradingview.com/chart/?symbol=BRC) | Brady Corporation | BRC |
-| 25 | 78 | $302.62 | [Chart](https://www.tradingview.com/chart/?symbol=ACN) | Accenture PLC | ACN |
-| 36 | 76 | $18.18 | [Chart](https://www.tradingview.com/chart/?symbol=S) | SentinelOne, Inc. | S |
+| 28 | 80 | $13.04 | [Chart](https://www.tradingview.com/chart/?symbol=RIVN) | Rivian Automotive, Inc. Class A Common Stock | RIVN |
+| 24 | 78 | $69.02 | [Chart](https://www.tradingview.com/chart/?symbol=BRC) | Brady Corporation | BRC |
+| 30 | 77 | $103.40 | [Chart](https://www.tradingview.com/chart/?symbol=DEO) | Diageo plc | DEO |
 | 32 | 72 | $126.44 | [Chart](https://www.tradingview.com/chart/?symbol=RGEN) | Repligen Corp | RGEN |
-| 32 | 69 | $23.09 | [Chart](https://www.tradingview.com/chart/?symbol=IBHF) | iShares iBonds 2026 Term High Yield and Income ETF | IBHF |
+| 33 | 68 | $23.09 | [Chart](https://www.tradingview.com/chart/?symbol=IBHF) | iShares iBonds 2026 Term High Yield and Income ETF | IBHF |
 | 33 | 68 | $22.84 | [Chart](https://www.tradingview.com/chart/?symbol=IBTG) | iShares iBonds Dec 2026 Term Treasury ETF | IBTG |
+| 36 | 65 | $58.55 | [Chart](https://www.tradingview.com/chart/?symbol=VGSH) | Vanguard Short-Term Treasury ETF | VGSH |
 
 ## **Methodology**
 
